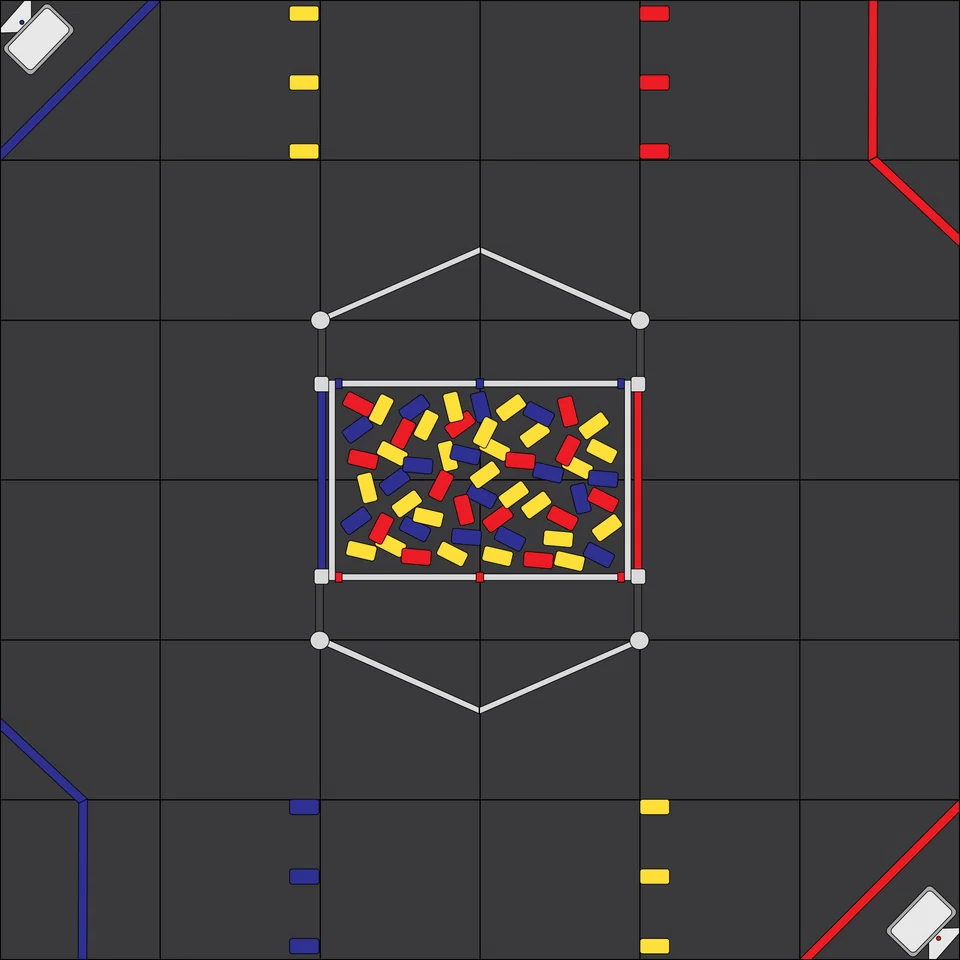
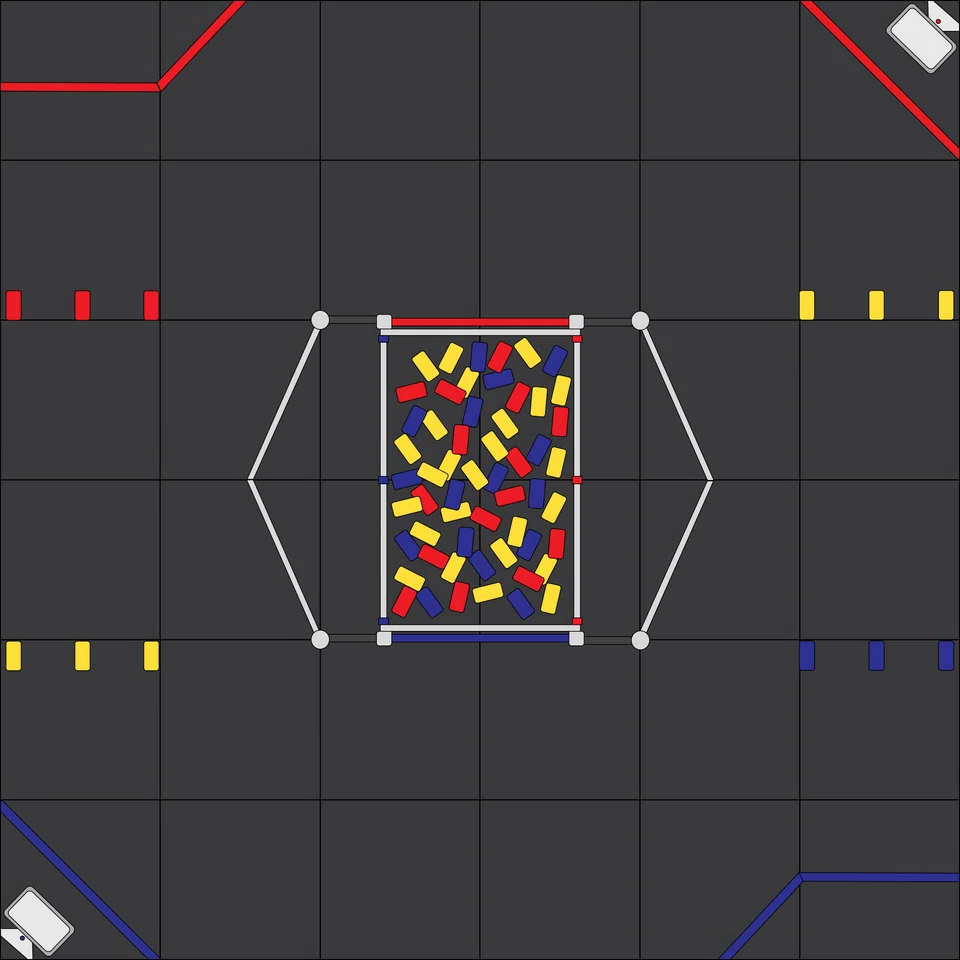
rotating meepmeep field

diff --git a/TeamCode/src/main/java/org/firstinspires/ftc/teamcode/mechanisms/extendo/IntakeCommand.java b/TeamCode/src/main/java/org/firstinspires/ftc/teamcode/mechanisms/extendo/IntakeCommand.java
@@ -1,5 +1,10 @@
 package org.firstinspires.ftc.teamcode.mechanisms.extendo;
 
+import org.firstinspires.ftc.robotcore.external.Telemetry;
+
 public class IntakeCommand {
+    private Intake intake;
+    private Telemetry telemetry;
+    private
 
 }

diff --git a/TeamCode/src/main/java/org/firstinspires/ftc/teamcode/GamepadMapping.java b/TeamCode/src/main/java/org/firstinspires/ftc/teamcode/GamepadMapping.java
@@ -1,0 +1,4 @@
+package org.firstinspires.ftc.teamcode;
+
+public class GamepadMapping {
+}
